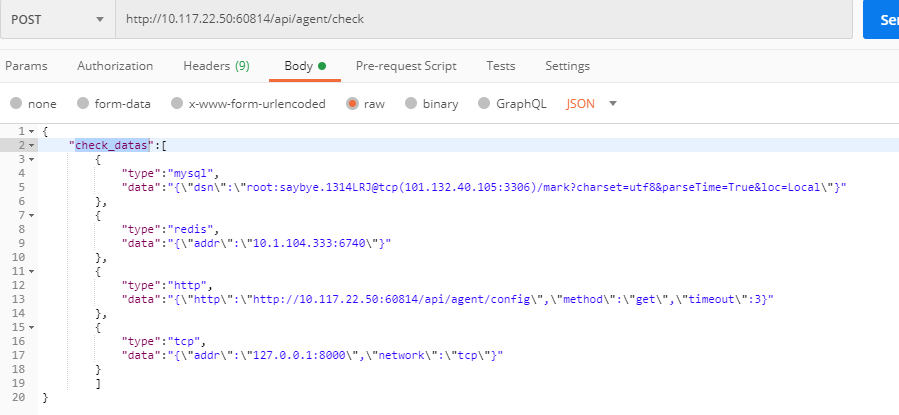
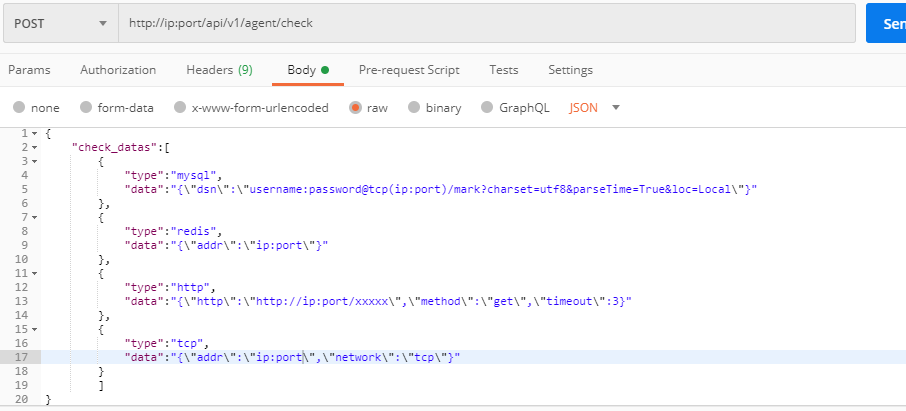
Modify dependency detection document

diff --git a/pkg/core/api.go b/pkg/core/api.go
@@ -38,7 +38,7 @@ func (eng *Engine) serveHTTP() error {
 	v1Group := s.Group("/api/v1")
 	v1Group.GET("/agent/:target", eng.getAppConfig) // get app config
 	v1Group.GET("/agent/config", eng.listenConfig)  // listenConfig
-	v1Group.GET("/api/agent/check", eng.agentCheck) // 加入依赖探活检测
+	v1Group.POST("/agent/check", eng.agentCheck)    // 加入依赖探活检测
 	v1Group.POST("/conf/command_line/status", eng.confStatus)
 
 	v1Group.GET("/agent/rawKey/getConfig", eng.getRawAppConfig)       // 根据原生key获取配置信息

diff --git a/doc/api/api.md b/doc/api/api.md
@@ -184,25 +184,25 @@ type ContentNode struct {
 ### 调用示例
 #### curl
 ```shell script
-curl --location --request POST 'http://127.0.0.1:60814/api/agent/check' \
+curl --location --request POST 'http://ip:port/api/v1/agent/check' \
 --header 'Content-Type: application/json' \
 --data-raw '{
 	"check_datas":[
 		{
 			"type":"mysql",
-			"data":"{\"dsn\":\"user:pwd@tcp(127.0.0.1:3306)/mark?charset=utf8&parseTime=True&loc=Local\"}"
+			"data":"{\"dsn\":\"user:pwd@tcp(ip:port)/xxx?charset=utf8&parseTime=True&loc=Local\"}"
 		},
 		{
 			"type":"redis",
-			"data":"{\"addr\":\"127.0.0.1:6740\"}"
+			"data":"{\"addr\":\"ip:port\"}"
 		},
 		{
 			"type":"http",
-			"data":"{\"http\":\"http://10.117.22.50:60814/api/agent/config\",\"method\":\"get\",\"timeout\":3}"
+			"data":"{\"http\":\"http://ip:port/xxx\",\"method\":\"get\",\"timeout\":3}"
 		},
 		{
 			"type":"tcp",
-			"data":"{\"addr\":\"127.0.0.1:8000\",\"network\":\"tcp\"}"
+			"data":"{\"addr\":\"ip:port\",\"network\":\"tcp\"}"
 		}
 		]
 }'
